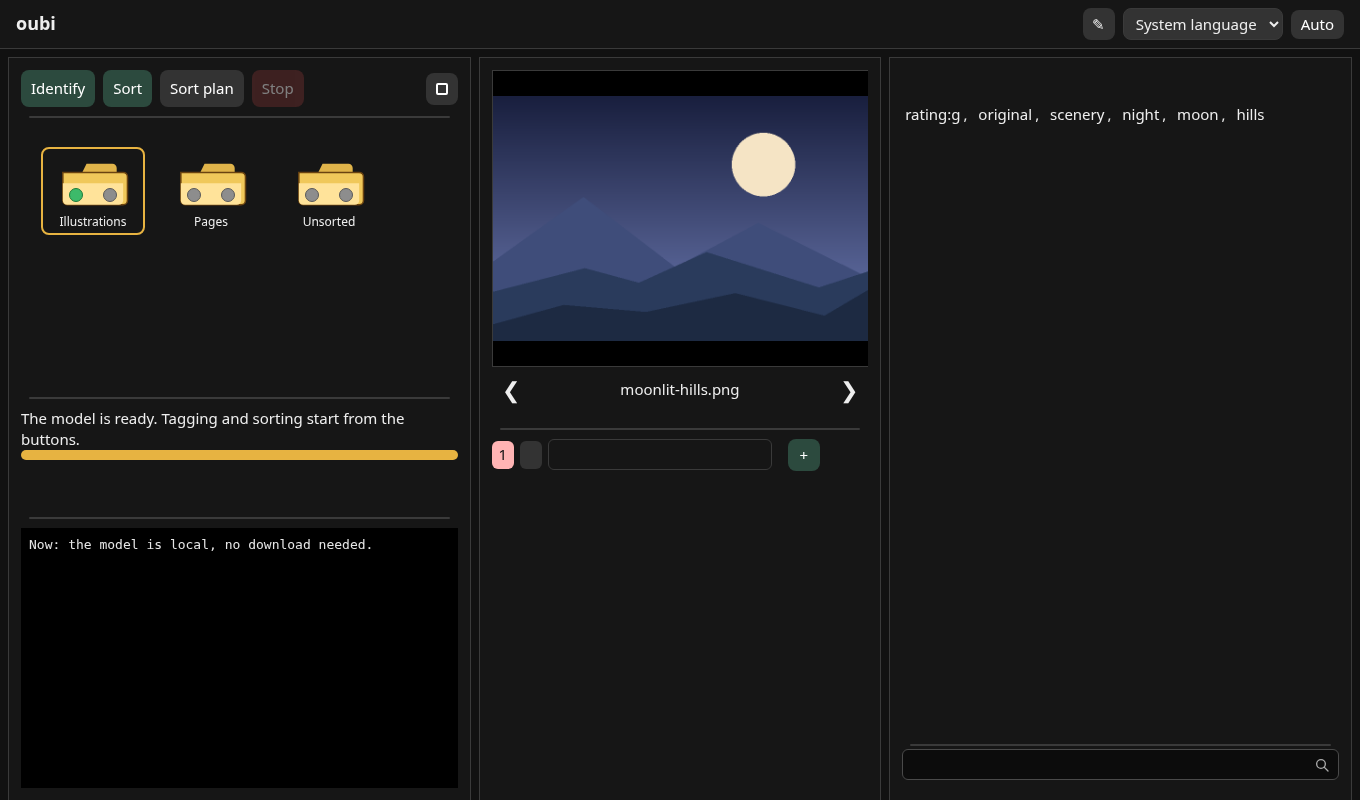
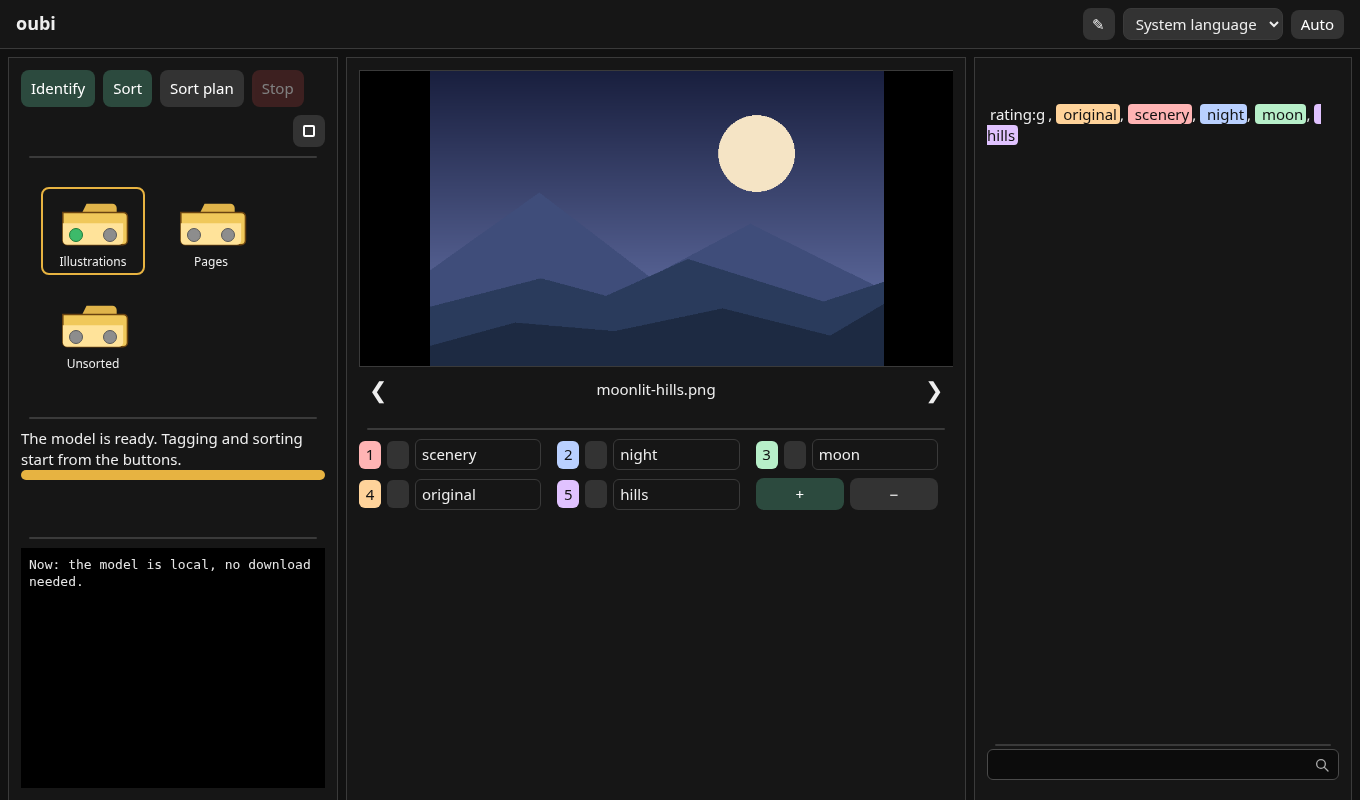
Align genre controls and add last-field removal

diff --git a/oubi_page.html b/oubi_page.html
@@ -123,8 +123,12 @@ body.arrange .block * { pointer-events: none; }
 #name { position: absolute; left: 48px; right: 48px; top: 0; height: 44px; margin: 0; display: flex; align-items: center; justify-content: center; line-height: 1; text-align: center; overflow: hidden; text-overflow: ellipsis; white-space: nowrap; }
 #who { margin: 0; min-height: 1.2em; font-size: 22px; font-weight: 700; }
 #tags { white-space: pre-wrap; margin: 0; width: 100%; overflow: auto; }
-#genre-row { display: flex; flex-wrap: wrap; gap: 8px 16px; width: 100%; flex: 1; min-height: 0; overflow: auto; align-items: flex-start; align-content: flex-start; }
-.genre-slot { display: flex; gap: 6px; align-items: center; flex: 1 1 180px; max-width: 280px; min-width: 0; overflow: hidden; }
+#genre-row { display: grid; grid-template-columns: repeat(auto-fill, minmax(min(100%, 180px), 1fr)); gap: 8px 16px; width: 100%; flex: 1; min-height: 0; overflow: auto; scrollbar-gutter: stable; align-content: start; }
+.genre-slot, .genre-actions { max-width: 280px; min-width: 0; }
+.genre-slot { display: flex; gap: 6px; align-items: center; overflow: hidden; }
+.genre-actions { display: grid; grid-template-columns: repeat(2, minmax(0, 1fr)); gap: 6px; align-items: center; }
+.genre-actions button { height: 32px; padding: 0; }
+#genre-remove { grid-column: 2; }
 .genre-handle, .genre-pin { width: 22px; height: 28px; padding: 0; border-radius: 6px; flex: 0 0 22px; box-sizing: border-box; }
 .genre-handle { cursor: grab; color: #111; }
 .genre-pin { background: var(--btn-2); color: var(--text); border: 2px solid transparent; }
@@ -137,7 +141,6 @@ body.arrange .block * { pointer-events: none; }
 #suggest button.on { background: var(--line); }
 .ghost-tail { color: var(--muted); }
 .genre-field input { position: relative; display: block; width: 100%; min-width: 0; max-width: 100%; color: var(--text); background: transparent; border: 1px solid var(--line); border-radius: 6px; }
-#genre-add { width: 32px; height: 32px; padding: 0; flex: 0 0 auto; }
 .tag-hit { cursor: pointer; border-radius: 4px; padding: 0 3px; }
 .filter-find { margin: 0 0 8px; background: var(--search-bg); border: 1px solid var(--search-edge); border-radius: 6px; }
 .filter-find input, .filter-find .genre-ghost { border: 0; background: transparent; padding-right: 30px; }
@@ -279,6 +282,7 @@ let reelAt = -1;
 let follow = true;
 let shown = "";
 let genres = __OUBI_GENRES__;
+const maxGenres = __OUBI_MAX_GENRES__;
 let layout = __OUBI_LAYOUT__;
 let lang = "__OUBI_LANG__";
 let languageChoice = "__OUBI_LANGUAGE_CHOICE__";
@@ -901,7 +905,7 @@ function saveGenres() {
     fetch("/api/genres", {
       method: "POST",
       headers: { "Content-Type": "application/json" },
-      body: JSON.stringify({ genres: genres.slice(0, 20) }),
+      body: JSON.stringify({ genres }),
     });
   }, 300);
 }
@@ -1003,19 +1007,39 @@ function renderGenreRow(focusAt) {
     slot.append(handle, pin, field);
     row.append(slot);
   });
-  if (genres.length < 20) {
+  const actions = document.createElement("div");
+  actions.className = "genre-actions";
+  if (genres.length < maxGenres) {
     const add = document.createElement("button");
     add.type = "button";
     add.id = "genre-add";
     add.textContent = "+";
-    add.setAttribute("aria-label", t(101));
+    add.title = t(101);
+    add.setAttribute("aria-label", add.title);
     add.onclick = () => {
-      if (genres.length >= 20) return;
       genres.push("");
       renderGenreRow(genres.length - 1);
     };
-    row.append(add);
+    actions.append(add);
   }
+  const remove = document.createElement("button");
+  remove.type = "button";
+  remove.id = "genre-remove";
+  remove.className = "secondary";
+  remove.textContent = "−";
+  remove.title = t(103);
+  remove.setAttribute("aria-label", remove.title);
+  remove.disabled = genres.length <= 1;
+  remove.onclick = () => {
+    genres.pop();
+    hideSuggest();
+    renderGenreRow(genres.length === 1 ? 0 : undefined);
+    if (genres.length > 1) document.getElementById("genre-remove").focus();
+    paintTags(tagText);
+    saveGenres();
+  };
+  actions.append(remove);
+  row.append(actions);
   if (focusAt !== undefined) {
     const inputs = row.querySelectorAll(".genre-field input");
     const target = inputs[focusAt];

diff --git a/tests/test_web.py b/tests/test_web.py
@@ -2,6 +2,7 @@ import os
 import sys
 import unittest
 from pathlib import Path
+from unittest.mock import patch
 
 sys.path.insert(0, str(Path(__file__).resolve().parents[1]))
 
@@ -154,6 +155,8 @@ class WebTests(unittest.TestCase):
                 self.assertEqual(len(read_genres(path)), 20)
                 self.assertFalse(write_genres(["y"] * 21, path))
                 self.assertEqual(len(read_genres(path)), 20)
+                self.assertTrue(write_genres([""], path))
+                self.assertEqual(read_genres(path), [])
                 os.environ["OUBI_GENRE_20"] = "last"
                 empty = Path(tmp) / "missing.txt"
                 self.assertEqual(read_genres(empty)[-1], "last")
@@ -163,6 +166,12 @@ class WebTests(unittest.TestCase):
                 os.environ.pop("OUBI_GENRE_1", None)
             else:
                 os.environ["OUBI_GENRE_1"] = previous
+
+    def test_genre_controls_use_the_server_limit(self):
+        with patch("oubi_web.MAX_GENRES", 24):
+            page = page_bytes([], genres=["example"] * 25)
+        self.assertIn(b"const maxGenres = 24;", page)
+        self.assertEqual(page.count(b'"example"'), 24)
 
 
 class LayoutTests(unittest.TestCase):

diff --git a/oubi_web.py b/oubi_web.py
@@ -43,6 +43,7 @@ def page_bytes(items, theme="auto", genres=None, layout=None, lang="en", catalog
     html = PAGE_PATH.read_text(encoding="utf-8")
     html = html.replace("FOLDERS_JSON", payload, 1).replace("__OUBI_THEME__", chosen, 1)
     html = html.replace("__OUBI_GENRES__", genre_payload, 1)
+    html = html.replace("__OUBI_MAX_GENRES__", str(MAX_GENRES), 1)
     html = html.replace("__OUBI_LAYOUT__", layout_payload, 1)
     html = html.replace("__OUBI_LANG__", lang_code)
     html = html.replace("__OUBI_LANGUAGE_CHOICE__", language_choice, 1)
@@ -188,8 +189,7 @@ def read_genres(path=GENRES_PATH):
         picked = [line.strip()[:80] for line in lines[:MAX_GENRES]]
         while picked and not picked[-1]:
             picked.pop()
-        if picked:
-            return picked
+        return picked
     picked = [os.environ.get(f"OUBI_GENRE_{number}", "").strip() for number in range(1, MAX_GENRES + 1)]
     while picked and not picked[-1]:
         picked.pop()

diff --git a/README.md b/README.md
@@ -37,6 +37,7 @@
 | `Identify` | Tag images in the selected folders when the model is ready. |
 | `Sort` | Copy the selected folders' tagged images into their destinations. Set `OUBI_MOVE=1` to move them. |
 | `Sort plan` | Show destination paths before copying or moving. A plan may write `unknown_genders.txt`. |
+| `+` / `−` | Add a genre field or remove the last one, keeping at least one field available. |
 | `OUBI_PORT` | Choose the host port. The container listens on `8080`. |
 | `OUBI_NO_TXT=1` | Skip writing tag sidecars. Resume relies on sidecars that already exist. |
 | `OUBI_NSFW_FROM` | Use `q` to include `rating:q` and `rating:e`, or `e` to include only `rating:e`. |

diff --git a/chit/lore.md b/chit/lore.md
@@ -6,6 +6,7 @@
 - Build filter suggestions from all tagged files in the selected folders, including files outside the recent-image preview.
 - Keep numbered pages of a series together in the destination and preserve their page numbers.
 - Apply genre folders only to `original` images and use the first matching configured genre so the order chosen in the UI decides ties.
+- Keep the genre add and remove buttons together in one field-width slot so a shorter row does not stretch its numbered fields.
 
 ## Compatibility Workarounds
 
